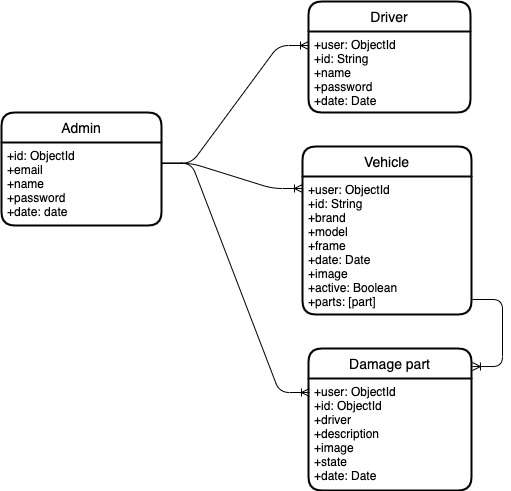
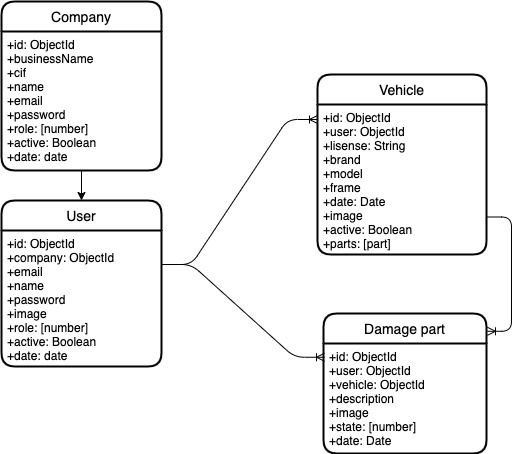
update doc and create models and schemas

diff --git a/staff/juanjo-ruiz/project/data/src/schemas/vehicle.js b/staff/juanjo-ruiz/project/data/src/schemas/vehicle.js
@@ -1,0 +1,51 @@
+const { Schema } = require('mongoose')
+const { Types: { ObjectId } } = require('Schemas')
+const part = require('./part')
+
+const vehicle = new Schema({
+    user: {
+        type: ObjectId,
+        ref: 'User',
+        required: true
+    },
+
+    lisense: {
+        type: String,
+        required: true
+    },
+
+    brand: {
+        type: String,
+        required: true
+    },
+
+    model: {
+        type: String,
+        required: true
+    },
+
+    frame: {
+        type: String,
+        required: true
+    },
+
+    image: {
+        type: String
+    },
+
+    active: {
+        type: Boolean,
+        required: true,
+        default: true
+    },
+
+    date: {
+        type: Date,
+        required: true,
+        default: Date.now
+    },
+
+    parts: [part]
+})
+
+module.exports = vehicle

diff --git a/staff/juanjo-ruiz/project/data/src/schemas/company.js b/staff/juanjo-ruiz/project/data/src/schemas/company.js
@@ -1,0 +1,50 @@
+const { Schema } = require('mongoose')
+
+const company = new Schema({
+    businessName: {
+        type: String,
+        required: true
+    },
+
+    cif: {
+        type: String,
+        required: true,
+        unique: true
+    },
+
+    name: {
+        type: String,
+        required: true
+    },
+
+    email: {
+        type: String,
+        required: true,
+        unique: true
+    },
+
+    password: {
+        type: String,
+        required: true
+    },
+
+    role: {
+        type: Array,
+        required: true,
+        defualt: [0]
+    },
+
+    active: {
+        type: Boolean,
+        required: true,
+        default: true
+    },
+
+    date: {
+        type: Date,
+        require: true,
+        default: Date.now
+    }
+})
+
+module.exports = company

diff --git a/staff/juanjo-ruiz/project/data/src/schemas/user.js b/staff/juanjo-ruiz/project/data/src/schemas/user.js
@@ -1,0 +1,49 @@
+const { Schema } = require('mongoose')
+const { Types: { ObjectId } } = require('Schemas')
+
+const user = new Schema({
+    company: {
+        type: ObjectId,
+        ref: 'Company',
+        required: true
+    },
+
+    name: {
+        type: String,
+        required: true
+    },
+
+    password: {
+        type: String,
+        required: true
+    },
+
+    email: {
+        type: String,
+        required: true,
+        unique: true
+    },
+
+    image: {
+        type: String
+    },
+
+    role: {
+        type: Array,
+        required: true
+    },
+
+    active: {
+        type: Boolean,
+        required: true,
+        default: true
+    },
+
+    date: {
+        type: Date,
+        required: true,
+        default: Date.now
+    }
+})
+
+module.exports = user

diff --git a/staff/juanjo-ruiz/project/data/src/schemas/part.js b/staff/juanjo-ruiz/project/data/src/schemas/part.js
@@ -1,0 +1,40 @@
+const { Schema } = require('mongoose')
+const { Types: { ObjectId } } = require('Schemas')
+
+const part = new Schema({
+    user: {
+        type: ObjectId,
+        ref: 'user',
+        required: true
+    },
+
+    vehicle: {
+        type: ObjectId,
+        ref: 'vehicle',
+        required: true
+    },
+
+    description: {
+        type: String,
+        required: true,
+    },
+
+    image: {
+        type: String,
+        required: true
+    },
+
+    state: {
+        type: Array,
+        required: true,
+        default: [0]
+    },
+
+    date: {
+        type: Date,
+        required: true,
+        default: Date.now
+    }
+})
+
+module.exports = part

diff --git a/staff/juanjo-ruiz/project/data/src/models/index.js b/staff/juanjo-ruiz/project/data/src/models/index.js
@@ -1,0 +1,11 @@
+const User = require('./User')
+const Company = require('./Company')
+const Part = require('./Part')
+const Vehicle = require('./Vehicle')
+
+module.exports = {
+    User,
+    Company,
+    Part,
+    Vehicle
+}

diff --git a/staff/juanjo-ruiz/project/data/src/schemas/index.js b/staff/juanjo-ruiz/project/data/src/schemas/index.js
@@ -1,0 +1,11 @@
+const company = require('./company')
+const user = require('./user')
+const vehicle = require('./vehicle')
+const part = require('./part')
+
+module.exports = {
+    company,
+    user,
+    vehicle,
+    part
+}

diff --git a/staff/juanjo-ruiz/project/data/src/models/Company.js b/staff/juanjo-ruiz/project/data/src/models/Company.js
@@ -1,0 +1,6 @@
+const { model } = require('mongoose')
+const { company } = require('../schemas')
+
+const Company = model('Company', company)
+
+module.exports = Company

diff --git a/staff/juanjo-ruiz/project/data/src/models/Vehicle.js b/staff/juanjo-ruiz/project/data/src/models/Vehicle.js
@@ -1,0 +1,6 @@
+const { model } = require('mongoose')
+const { vehicle } = require('../schemas')
+
+const Vehicle = model('Vehicle', vehicle)
+
+module.exports = Vehicle

diff --git a/staff/juanjo-ruiz/project/data/src/models/Part.js b/staff/juanjo-ruiz/project/data/src/models/Part.js
@@ -1,0 +1,6 @@
+const { model } = require('mongoose')
+const { part } = require('../schemas')
+
+const Part = model('Part', part)
+
+module.exports = Part

diff --git a/staff/juanjo-ruiz/project/data/src/models/User.js b/staff/juanjo-ruiz/project/data/src/models/User.js
@@ -1,0 +1,6 @@
+const { model } = require('mongoose')
+const { user } = require('../schemas')
+
+const User = model('User', user)
+
+module.exports = User

diff --git a/staff/juanjo-ruiz/project/data/src/index.js b/staff/juanjo-ruiz/project/data/src/index.js
@@ -1,0 +1,7 @@
+const mongoose = require('mongoose')
+const models = require('./models')
+
+module.exports = {
+    mongoose,
+    models
+}

diff --git a/staff/juanjo-ruiz/project/README.md b/staff/juanjo-ruiz/project/README.md
@@ -10,10 +10,11 @@ App para la gestión de daños de vehículos dirigido a empresas en las que tien
 ---
 ### Casos de uso
 
-![](doc/images/casos-de-usos.jpg)
+![](doc/images/proyectofinal-casos-de-usos.jpg)
 
 ### Diseño
 
+![](doc/images/proyecto-final-bootcamp.png)
 
 ## Descripción técnica
 ---
@@ -25,3 +26,15 @@ App para la gestión de daños de vehículos dirigido a empresas en las que tien
 ### Bloques
 
 ![](doc/images/proyectofinal-bloques.jpg)
+
+### Tecnologías
+
+- React
+
+- Node
+
+- Express
+
+- Mongoose
+
+- Mongo
